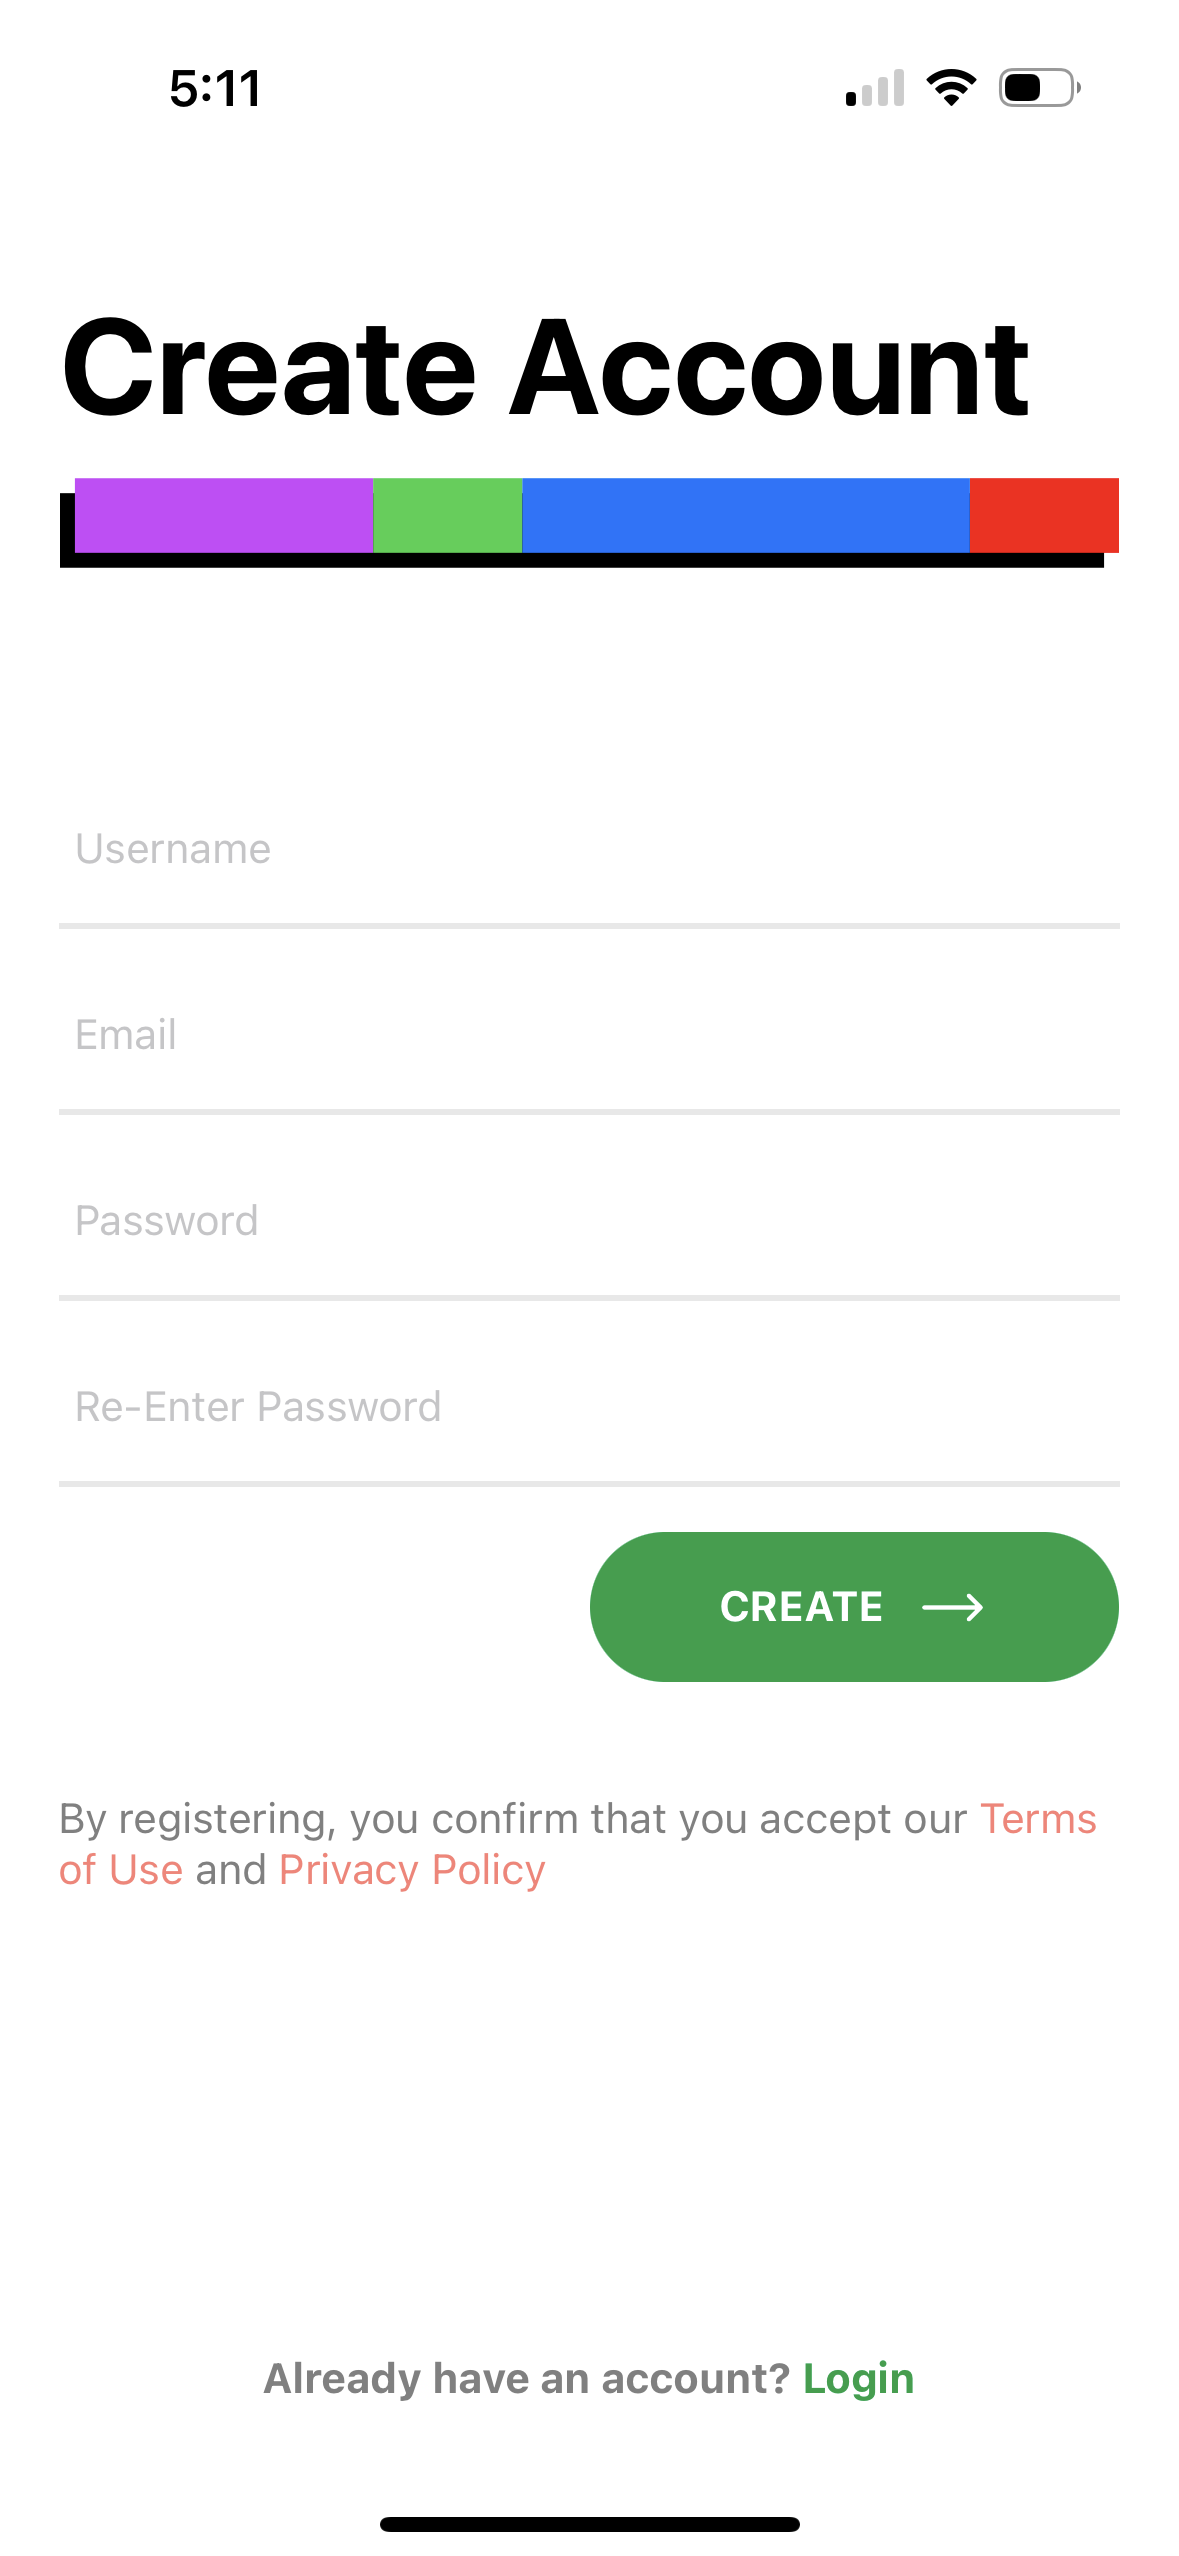
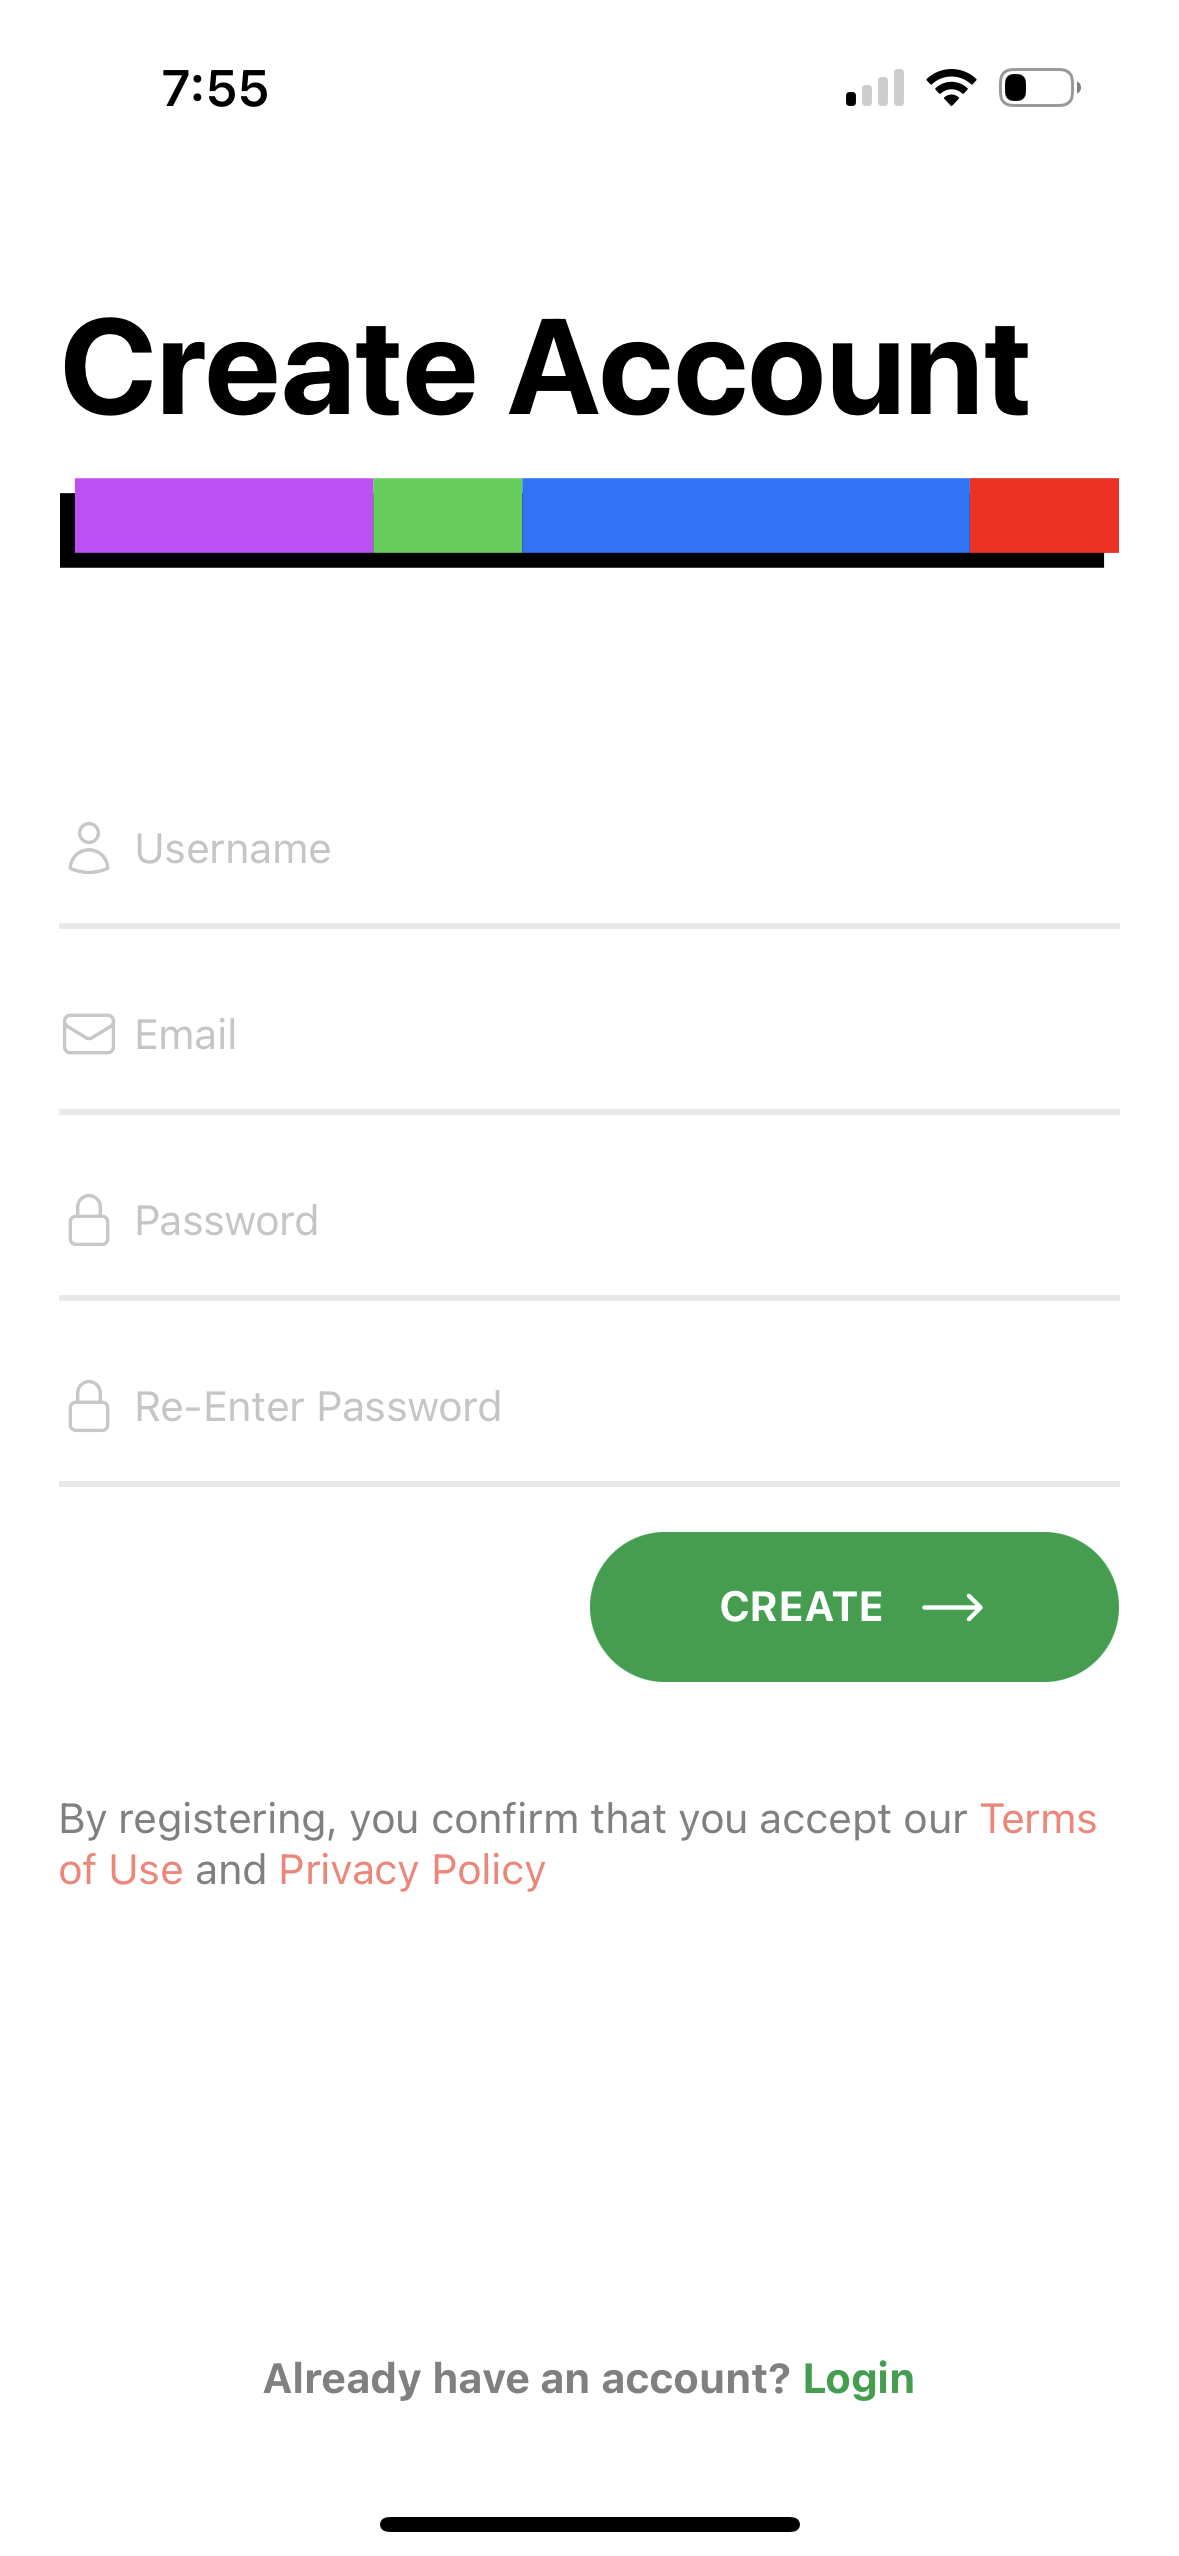
new sample image

diff --git a/screens/SignupScreen.js b/screens/SignupScreen.js
@@ -14,7 +14,12 @@ import { useDispatch } from "react-redux";
 import { setUser } from "../redux/actions";
 import SVGImg from "../assets/ClimbersEyeLogoShapesTest3.svg";
 import { colors } from "../utils/styles";
-import { ArrowLongRightIcon } from "react-native-heroicons/outline";
+import {
+  ArrowLongRightIcon,
+  EnvelopeIcon,
+  LockClosedIcon,
+  UserIcon,
+} from "react-native-heroicons/outline";
 
 const SignupScreen = ({ navigation }) => {
   const dispatch = useDispatch();
@@ -105,6 +110,7 @@ const SignupScreen = ({ navigation }) => {
           secureTextEntry={false}
           width="90%"
           autoCapitalize="none"
+          icon={<UserIcon size={20} color={colors.textInputDark} />}
         />
         <CustomInput
           value={email}
@@ -112,6 +118,7 @@ const SignupScreen = ({ navigation }) => {
           placeholder="Email"
           secureTextEntry={false}
           width="90%"
+          icon={<EnvelopeIcon size={20} color={colors.textInputDark} />}
         />
         <CustomInput
           value={password}
@@ -119,6 +126,7 @@ const SignupScreen = ({ navigation }) => {
           placeholder="Password"
           secureTextEntry={true}
           width="90%"
+          icon={<LockClosedIcon size={20} color={colors.textInputDark} />}
         />
         <CustomInput
           value={passwordRepeat}
@@ -126,6 +134,7 @@ const SignupScreen = ({ navigation }) => {
           placeholder="Re-Enter Password"
           secureTextEntry={true}
           width="90%"
+          icon={<LockClosedIcon size={20} color={colors.textInputDark} />}
         />
         <View
           style={{
